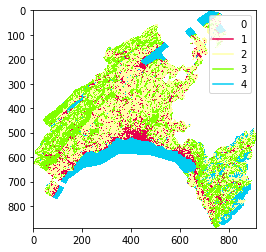
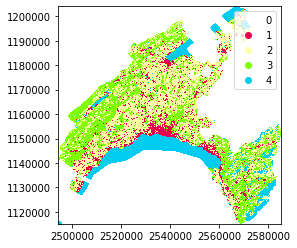
updated README example plots (axis coords with rasterio.plot.show)

diff --git a/README.md b/README.md
@@ -25,7 +25,7 @@ ldf.plot('AS09R_4', cmap=sls.noas04_4_cmap, legend=True)
 ![landstats](examples/landstats.png)
 
 ```python
-vaud_ldf = sls.clip_by_nominatim(ldf, 'Vaud, Switzerland')
+vaud_ldf = ldf.clip_by_nominatim('Vaud, Switzerland')
 vaud_ldf.plot('AS09R_4', cmap=sls.noas04_4_cmap, legend=True)
 ```
 ![landstats-vaud](examples/landstats_vaud.png)
